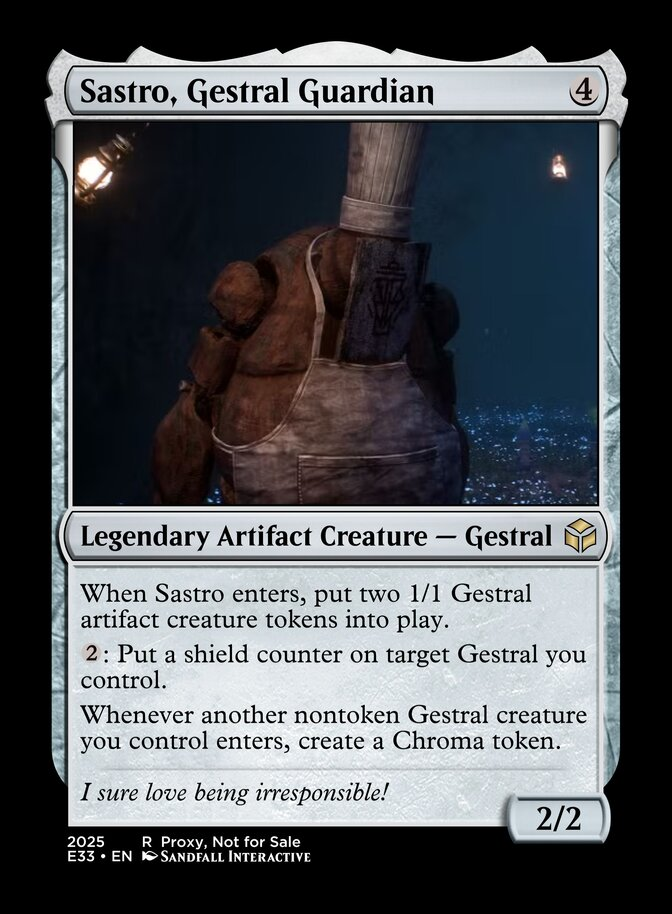
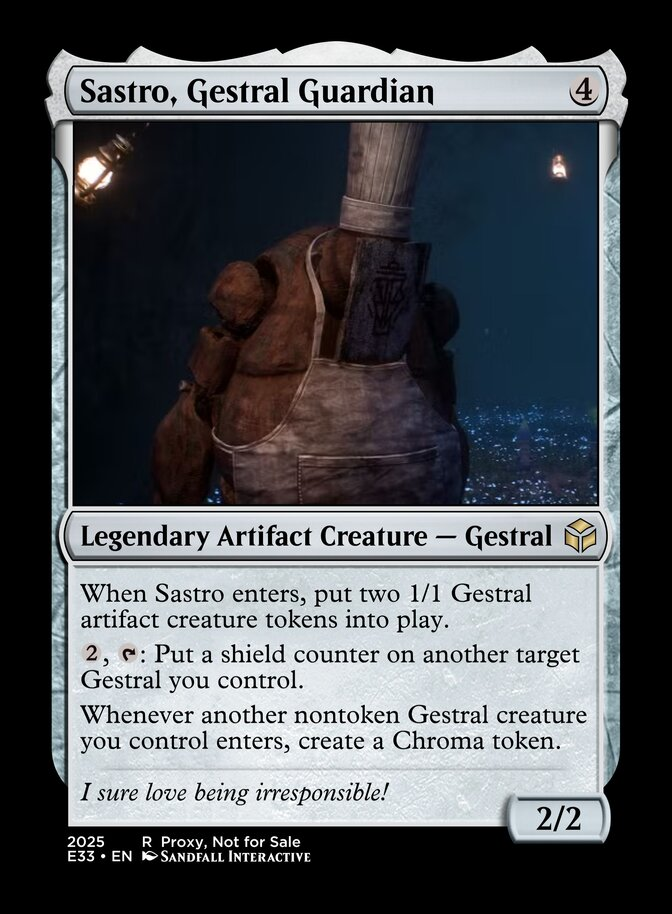
#71: Sastro: Make shield ability require tapping and only target other gestrals.

Changed region(s): [[0.125, 0.7046, 0.875, 0.7659]]

diff --git a/design/ARTIFACTS.md b/design/ARTIFACTS.md
@@ -1,6 +1,6 @@
 # Cards
 
-> Last generated: 26/1/2026 6:41:30 pm
+> Last generated: 27/1/2026 10:45:28 am
 
 ## A Rock for François
 
@@ -1225,7 +1225,7 @@ Learn Picto 2 (Sacrifice two Lumina tokens: Create a token copy of this equipmen
 4
 Legendary Artifact Creature - Gestral
 When Sastro enters, put two 1/1 Gestral artifact creature tokens into play.
-{2}: Put a shield counter on target Gestral you control.
+{2}, {T}: Put a shield counter on another target Gestral you control.
 Whenever another nontoken Gestral creature you control enters, create a Chroma token.
 ---
 I sure love being irresponsible!
